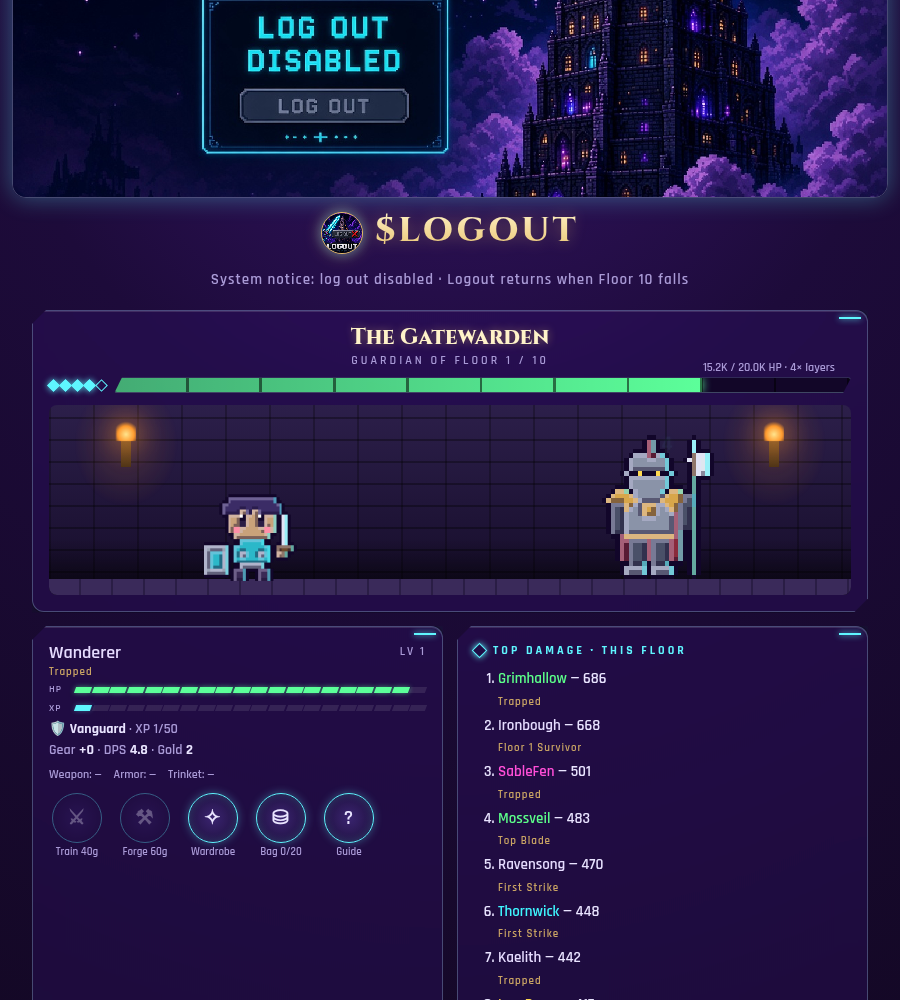
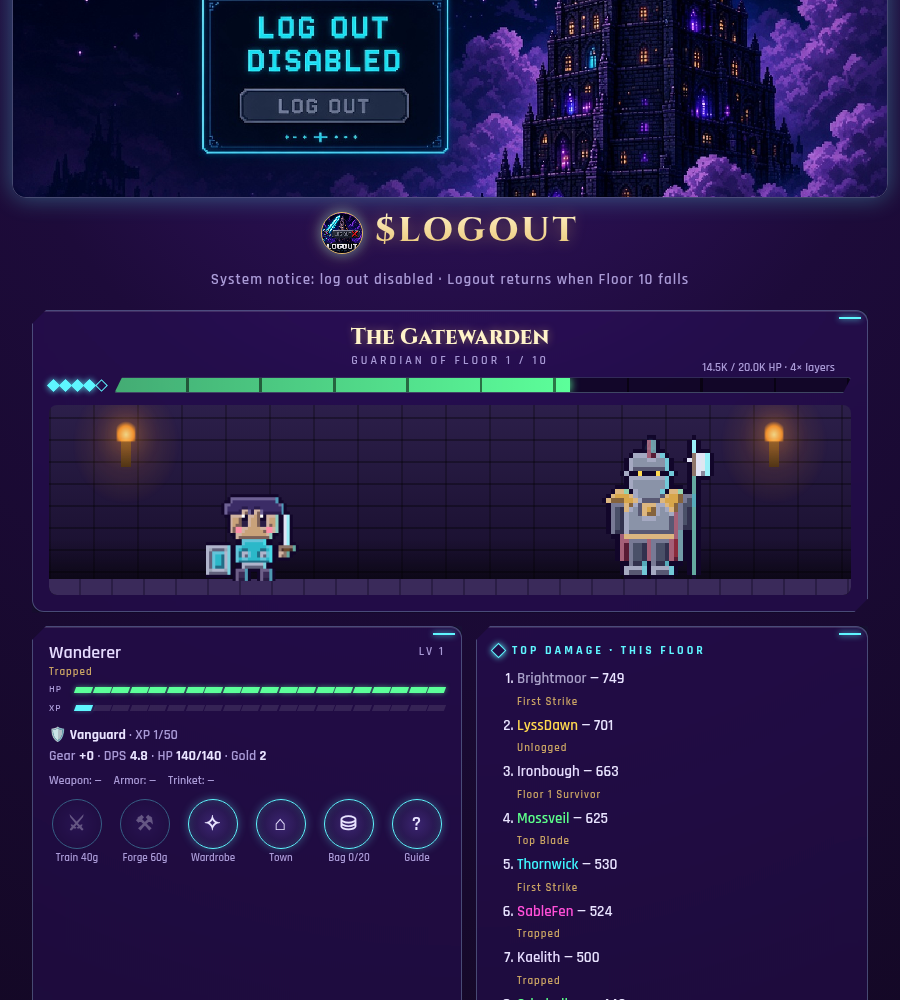
Town hub: hero HP drain + worn-down penalty (live & offline), inn with Well Rested buff, seeded rotating shop (potion, elixir, Scroll of Vigil, gear), NPC sprites, save v4

diff --git a/js/main.js b/js/main.js
@@ -1,5 +1,7 @@
-import { CLASSES, newHero, heroDps, levelCost, gearCost, computeProgress, accrue, applyXp, offlineCap, bossName, fmt, fmtDur, xpToNext } from './game.js';
+import { CLASSES, newHero, heroDps, levelCost, gearCost, accrue, offlineProgress, applyXp, heroHp, heroMaxHp, isWorn, effectiveDps, buffsOf, bossName, fmt, fmtDur, xpToNext } from './game.js';
 import { makeBackend } from './storage.js';
+import { innCost, rest, shopStock, buy as shopBuy, soldOut, npcGrid } from './town.js';
+import { sprite } from './sprites.js';
 import { grantDrops, equipItem, salvageItem, salvageValue, rarityOf, statLabel, INV_SIZE, GEAR_SLOTS } from './loot.js';
 import { OFFLINE_CAP_HOURS, MAX_FLOOR } from '../config.js';
 import { bossSprite, bossIsBig, heroSprite } from './sprites.js';
@@ -36,11 +38,12 @@ async function boot() {
   $('maxf').textContent = MAX_FLOOR;
   be = await makeBackend(); save = migrateSave(await be.loadSave());
   if (!save) return showCreate();
-  const cap = offlineCap(save.heroes, OFFLINE_CAP_HOURS), p = computeProgress(save.heroes, save.lastTick, Date.now(), cap);
+  const p = offlineProgress(save, Date.now(), OFFLINE_CAP_HOURS), cap = p.cap, h0 = save.heroes[0];
+  save.gold += p.gold; const ups = applyXp(save.heroes, p.xp); pending += p.damage;
   if (p.secs > 30) {
-    save.gold += p.gold; const ups = applyXp(save.heroes, p.xp); const r = await be.submitDamage(save.heroes[0].name, p.damage);
+    const r = await be.submitDamage(h0.name, pending); pending = 0;
     lootLines = []; const got = handleClears(r.clears, true);
-    $('awaytxt').innerHTML = `Log out disabled. You fought on for ${fmtDur(p.secs)}${p.capped ? ` (capped at ${cap}h)` : ''}<br>Damage: ${fmt(p.damage)}<br>Gold: +${fmt(p.gold)}<br>XP: +${fmt(p.xp)}${ups.length ? `<br>Level ups: ${ups.length}` : ''}${r.advanced ? `<br>Floors cleared: ${r.advanced}. Floor ${r.floor} is open.` : ''}${got.length ? `<br>Cosmetics unlocked: ${got.map(i => esc(i.label)).join(', ')}` : ''}${lootLines.length ? `<br>Loot: ${lootLines.join(', ')}` : ''}`;
+    $('awaytxt').innerHTML = `Log out disabled. You fought on for ${fmtDur(p.secs)}${p.capped ? ` (capped at ${cap}h)` : ''}${p.vigilUsed ? ' · Scroll of Vigil burned' : ''}<br>HP: ${Math.round(heroHp(h0))} / ${heroMaxHp(h0)}${p.lowSecs > 0 ? ` · worn down for ${fmtDur(p.lowSecs)} (DPS halved). Rest at the inn.` : ''}<br>Damage: ${fmt(p.damage)}<br>Gold: +${fmt(p.gold)}<br>XP: +${fmt(p.xp)}${ups.length ? `<br>Level ups: ${ups.length}` : ''}${r.advanced ? `<br>Floors cleared: ${r.advanced}. Floor ${r.floor} is open.` : ''}${got.length ? `<br>Cosmetics unlocked: ${got.map(i => esc(i.label)).join(', ')}` : ''}${lootLines.length ? `<br>Loot: ${lootLines.join(', ')}` : ''}`;
     $('away').showModal();
   }
   save.lastTick = Date.now(); await be.saveSave(save); startGame();
@@ -81,7 +84,7 @@ async function startGame(fresh = false) {
   floor = await be.getFloor(); log(`${save.heroes[0].name} awoke on Floor ${floor.floor}. The guardian stirs.`); log('System notice: log out disabled.');
   if (fresh) { notice('Log out disabled'); setTimeout(() => notice(`Floor ${floor.floor} is open`), 900); } // no replayed notices on reload
   $('lvl').onclick = () => buy('level'); $('gear').onclick = () => buy('gear'); $('wardrobeBtn').onclick = openWardrobe;
-  $('helpBtn').onclick = () => tourShow(0); $('bagBtn').onclick = openBag; placeDock();
+  $('townBtn').onclick = openTown; $('helpBtn').onclick = () => tourShow(0); $('bagBtn').onclick = openBag; placeDock();
   setInterval(tick, 1000); setInterval(sync, 5000); render(); renderLb();
   if (!save.tutorialSeen) setTimeout(startTour, fresh ? 1600 : 400);
 }
@@ -114,9 +117,13 @@ function render() {
   const c = hpColor(pct); $('hpfill').style.width = (lay ? inLayer * 100 : 0) + '%'; $('hpfill').style.background = `linear-gradient(90deg, ${c}aa, ${c})`; $('hpfill').style.color = c;
   $('hptext').textContent = `${fmt(floor.hp)} / ${fmt(floor.maxHp)} HP · ${lay}× layers`;
   $('hname2').innerHTML = `<div style="color:${nameColorOf(h)}">${esc(h.name)}</div><div class="ttl">${esc(titleOf(h))}</div>`; $('hlv').textContent = `LV ${h.level}`;
-  const hp = 0.85 + 0.15 * Math.abs(Math.sin(Date.now() / 3000)); $('hhp').innerHTML = Array.from({ length: 20 }, (_, i) => `<i class="${i / 20 < hp ? '' : 'off'}"></i>`).join('');
+  const hp = heroHp(h) / heroMaxHp(h), worn = isWorn(h); $('hhp').className = 'seg' + (worn ? ' worn' : hp < 0.6 ? ' mid' : ''); $('hhp').innerHTML = Array.from({ length: 20 }, (_, i) => `<i class="${i / 20 < hp ? '' : 'off'}"></i>`).join('');
+  $('hhp').title = `HP ${Math.round(heroHp(h))} / ${heroMaxHp(h)}`;
+  const b = buffsOf(save), mmss = s => `${Math.floor(s / 60)}:${String(Math.floor(s % 60)).padStart(2, '0')}`;
+  $('buffs').innerHTML = [worn ? '<span class="buff bad" title="Below 30% HP: DPS halved">Worn down · DPS ½</span>' : '', b.rested > 0 ? `<span class="buff" title="+15% gold and XP">Well Rested ${mmss(b.rested)}</span>` : '',
+    b.elixir > 0 ? `<span class="buff" title="+25% DPS">Fury ${mmss(b.elixir)}</span>` : '', b.vigil > 0 ? `<span class="buff" title="Offline cap raised once">Vigil +${b.vigil}h</span>` : ''].join('');
   const xp = h.xp / xpToNext(h.level); $('hxp').innerHTML = Array.from({ length: 20 }, (_, i) => `<i class="${i / 20 < xp ? '' : 'off'}"></i>`).join('');
-  $('stats').innerHTML = `${CLASSES[h.cls].icon} <b>${h.cls}</b> · XP ${h.xp}/${xpToNext(h.level)}<br>Gear <b>+${h.gear}</b> · DPS <b>${heroDps(h).toFixed(1)}</b> · Gold <b>${fmt(save.gold)}</b>`;
+  $('stats').innerHTML = `${CLASSES[h.cls].icon} <b>${h.cls}</b> · XP ${h.xp}/${xpToNext(h.level)}<br>Gear <b>+${h.gear}</b> · DPS <b>${effectiveDps(save).toFixed(1)}</b> · HP <b>${Math.round(heroHp(h))}/${heroMaxHp(h)}</b> · Gold <b>${fmt(save.gold)}</b>`;
   $('lvlL').textContent = `Train ${fmt(levelCost(h))}g`; $('lvl').title = `Train: +1 level for ${fmt(levelCost(h))} gold`; $('lvl').disabled = save.gold < levelCost(h);
   $('equipped').innerHTML = GEAR_SLOTS.map(s => { const it = h.equip?.[s]; return `<span class="eq" style="${it ? `color:${rarityOf(it.rarity).color}` : ''}">${s[0].toUpperCase() + s.slice(1)}: ${it ? esc(it.name) : '—'}</span>`; }).join('');
   $('bagL').textContent = `Bag ${save.inv.length}/${INV_SIZE}`; $('gear').title = 'Forge: temper your weapon, +15% damage per tier';
@@ -129,6 +136,24 @@ async function renderLb() {
     return `<li class="${me ? 'me' : ''}" value="${r.rank}"><span style="color:${pr.color}">${esc(r.name)}</span> — ${fmt(r.damage)}<br><span class="ttl">${esc(pr.title)}</span></li>`;
   }).join('');
 }
+// ---- Town (safe zone of the current floor): inn + rotating shop
+function openTown() {
+  const f = floor.floor, now = Date.now(), st = shopStock(f, now), h = save.heroes[0], c = innCost(f);
+  $('townTitle').textContent = `Town of Floor ${f}`;
+  $('innkeeper').style.backgroundImage = sprite(npcGrid('innkeeper').rows, npcGrid('innkeeper').pal); $('merchant').style.backgroundImage = sprite(npcGrid('merchant').rows, npcGrid('merchant').pal);
+  $('innInfo').innerHTML = `HP <b>${Math.round(heroHp(h))} / ${heroMaxHp(h)}</b>${isWorn(h) ? ' · <span class="bad">worn down</span>' : ''}`;
+  $('restBtn').textContent = `Rest · ${fmt(c)}g`; $('restBtn').disabled = save.gold < c;
+  $('restBtn').onclick = async () => { if (rest(save, f)) { log('You slept at the inn. HP restored · Well Rested (+15% gold & XP, 30 min).', '#5cff8a'); notice('Well Rested · +15% gold & XP'); await be.saveSave(save); render(); openTown(); } };
+  const left = st.endsAt - now; $('shopTimer').textContent = `New stock in ${fmtDur(left / 1000)}`;
+  $('shopList').innerHTML = st.items.map((it, i) => { const R = it.item ? rarityOf(it.item.rarity) : null, out = soldOut(save, st, i);
+    return `<div class="srow" ${R ? `style="--rc:${R.color}"` : ''}><div><b style="${R ? `color:${R.color}` : ''}">${esc(it.name)}</b><small>${R ? `${R.label} ${it.item.slot} · ${Object.entries(it.item.stats).map(([k, v]) => statLabel(k, v)).join(' · ')}` : esc(it.desc)}</small></div>
+      <button data-i="${i}" ${out || save.gold < it.price ? 'disabled' : ''}>${out ? 'Sold' : `${fmt(it.price)}g`}</button></div>`; }).join('');
+  $('shopList').onclick = async e => { const btn = e.target.closest('button[data-i]'); if (!btn) return; const got = shopBuy(save, f, Date.now(), +btn.dataset.i);
+    if (got) { log(`Bought ${got}.`); notice(`Bought · ${got}`); await be.saveSave(save); render(); } openTown(); };
+  $('townGold').textContent = `Gold ${fmt(save.gold)}`;
+  if (!$('town').open) $('town').showModal();
+}
+
 // ---- Bag: inventory grid, compare panel, equip and salvage
 let bagSel = -1;
 const itemCard = (it, cls = '') => { const R = rarityOf(it.rarity); return `<div class="item ${cls}" style="--rc:${R.color}"><b style="color:${R.color}">${esc(it.name)}</b><small>${R.label} · ${it.slot} · Floor ${it.floor} · ${it.element}</small>${Object.entries(it.stats).map(([k, v]) => `<div>${statLabel(k, v)}</div>`).join('')}</div>`; };
@@ -155,7 +180,7 @@ function openBag() {
 const TOUR = [
   { t: 'You fight on your own', x: 'Your hero attacks the floor guardian automatically, every second, even while you are offline. Close the tab; the tower keeps count.', el: () => $('arena') },
   { t: 'Gold and XP', x: 'Every hit pays out: 10% of your damage becomes gold and 5% becomes XP. Fill the XP bar to level up and hit harder.', el: () => $('stats') },
-  { t: 'Train · Forge · Wardrobe', x: 'Train spends gold on a level. Forge tempers your gear for +15% damage per tier. Wardrobe changes your look; it is cosmetic only.', el: () => $('dock') },
+  { t: 'Train · Forge · Wardrobe', x: 'Train spends gold on a level. Forge tempers your gear for +15% damage per tier. Wardrobe changes your look (cosmetic only). Bag holds boss loot; Town has an inn to heal and a shop.', el: () => $('dock') },
   { t: 'One guardian, whole server', x: 'Everyone in the tower shares this boss. Top damage when it falls earns titles, name colours and other rewards.', el: () => $('lb').closest('.panel') },
   { t: 'Layers', x: 'The guardian\'s HP comes in layers: each diamond is one full HP bar. Break every layer to clear the floor and open the stair.', el: () => $('layers').closest('.gauge') },
 ];

diff --git a/js/game.js b/js/game.js
@@ -9,7 +9,7 @@ export { floorBossHp, bossName, bossInfo } from './floors.js';
 
 export function newHero(name, cls) {
   if (!CLASSES[cls]) throw new Error('bad class');
-  return { id: Math.random().toString(36).slice(2, 10), name: String(name).slice(0, 20) || 'Nameless', cls, level: 1, xp: 0, gear: 0 };
+  return { id: Math.random().toString(36).slice(2, 10), name: String(name).slice(0, 20) || 'Nameless', cls, level: 1, xp: 0, gear: 0, hp: CLASSES[cls].hp };
 }
 /** Summed stats of equipped loot: { dps (flat), dpsPct, goldPct, xpPct, capH }. */
 export function gearBonus(h) {
@@ -35,14 +35,51 @@ export function computeProgress(heroes, lastTick, now, capHours = 12) {
   return { secs, capped: raw > secs, damage, gold: Math.floor(damage * 0.1 * goldMul(heroes)), xp: Math.floor(damage * 0.05 * xpMul(heroes)) };
 }
 /** Live accrual with fractional carry (fixes per-tick flooring that kept low-DPS heroes at 0 gold/XP). Mutates save.lastTick/save.carry. */
+// ---- Hero HP: the boss chips HP while you fight. Below 30% DPS halves. HP never drops below 1 (no death, no lost progress).
+export const DRAIN_SECS = 3600;            // full HP to empty in one hour of fighting
+export const LOW_HP = 0.3, LOW_MUL = 0.5;  // worn-down threshold and DPS penalty
+export const RESTED = { secs: 1800, mul: 1.15 }, ELIXIR = { secs: 600, mul: 1.25 };
+export const heroMaxHp = h => Math.round(CLASSES[h.cls].hp * (1 + 0.1 * (h.level - 1)));
+export const heroHp = h => Math.min(heroMaxHp(h), h.hp ?? heroMaxHp(h));
+export const isWorn = h => heroHp(h) <= LOW_HP * heroMaxHp(h) + 1e-9;
+export const buffsOf = save => save.buffs || (save.buffs = { rested: 0, elixir: 0, vigil: 0 });
+/** DPS right now, including the low-HP penalty and an active elixir. */
+export const effectiveDps = save => totalDps(save.heroes) * (isWorn(save.heroes[0]) ? LOW_MUL : 1) * (buffsOf(save).elixir > 0 ? ELIXIR.mul : 1);
+/** Simulate `secs` of fighting (live or offline: same rules). Splits time at HP-threshold and buff-expiry breakpoints.
+ *  Mutates hero HP and buff timers; returns float { dmg, gold, xp, lowSecs }. */
+export function simulate(save, secs) {
+  const h = save.heroes[0], max = heroMaxHp(h), b = buffsOf(save), drain = max / DRAIN_SECS, base = totalDps(save.heroes);
+  const gM = goldMul(save.heroes), xM = xpMul(save.heroes);
+  let hp = heroHp(h), t = Math.max(0, secs), dmg = 0, gold = 0, xp = 0, lowSecs = 0;
+  for (let guard = 0; t > 1e-9 && guard < 16; guard++) {
+    const low = hp <= LOW_HP * max + 1e-9; let seg = t;
+    if (!low) seg = Math.min(seg, (hp - LOW_HP * max) / drain);
+    if (b.rested > 0) seg = Math.min(seg, b.rested);
+    if (b.elixir > 0) seg = Math.min(seg, b.elixir);
+    if (seg <= 1e-9) { if (!low) hp = LOW_HP * max; continue; }
+    const d = base * (low ? LOW_MUL : 1) * (b.elixir > 0 ? ELIXIR.mul : 1) * seg, r = b.rested > 0 ? RESTED.mul : 1;
+    dmg += d; gold += d * 0.1 * gM * r; xp += d * 0.05 * xM * r; if (low) lowSecs += seg;
+    hp = Math.max(1, hp - drain * seg); b.rested = Math.max(0, b.rested - seg); b.elixir = Math.max(0, b.elixir - seg); t -= seg;
+  }
+  h.hp = hp;
+  return { dmg, gold, xp, lowSecs };
+}
+const settle = (save, s) => { // float → integer payouts with fractional carry
+  const c = save.carry || (save.carry = { dmg: 0, gold: 0, xp: 0 }), out = {};
+  for (const [k, v] of [['dmg', s.dmg], ['gold', s.gold], ['xp', s.xp]]) { const x = v + c[k]; out[k] = Math.floor(x); c[k] = x - out[k]; }
+  return out;
+};
+/** Live accrual with fractional carry (fixes per-tick flooring that kept low-DPS heroes at 0 gold/XP). */
 export function accrue(save, now, capHours = 12) {
   const raw = Math.max(0, (now - save.lastTick) / 1000), secs = Math.min(raw, capHours * 3600);
-  const c = save.carry || (save.carry = { dmg: 0, gold: 0, xp: 0 });
-  const d = totalDps(save.heroes) * secs + c.dmg, damage = Math.floor(d); c.dmg = d - damage;
-  const g = damage * 0.1 * goldMul(save.heroes) + c.gold, gold = Math.floor(g); c.gold = g - gold;
-  const x = damage * 0.05 * xpMul(save.heroes) + c.xp, xp = Math.floor(x); c.xp = x - xp;
-  save.lastTick = now;
-  return { secs, capped: raw > secs, damage, gold, xp };
+  const s = simulate(save, secs), o = settle(save, s); save.lastTick = now;
+  return { secs, capped: raw > secs, damage: o.dmg, gold: o.gold, xp: o.xp, lowSecs: s.lowSecs };
+}
+/** Offline return: same rules as live play. A Scroll of Vigil adds 4h to the cap once (consumed only if the extra time was needed). */
+export function offlineProgress(save, now, baseCapHours = 12) {
+  const b = buffsOf(save), cap = offlineCap(save.heroes, baseCapHours) + (b.vigil || 0), raw = Math.max(0, (now - save.lastTick) / 1000);
+  const vigilUsed = b.vigil > 0 && raw > (cap - b.vigil) * 3600; if (vigilUsed) b.vigil = 0;
+  const r = accrue(save, now, cap); return { ...r, cap, vigilUsed };
 }
 export function applyXp(heroes, xp) {
   if (!heroes.length) return [];

diff --git a/js/town.js b/js/town.js
@@ -1,0 +1,55 @@
+// Town hub (one safe town per floor): inn rest + Well Rested buff, a seeded rotating shop, and original NPC sprites. Pure (no DOM).
+import { heroMaxHp, heroHp, buffsOf, RESTED, ELIXIR } from './game.js';
+import { rng, baseHp, bossInfo } from './floors.js';
+import { rollItem, salvageValue, INV_SIZE } from './loot.js';
+import { canvas, shadeShape } from './bosses.js';
+const tier = f => Math.sqrt(baseHp(f) / baseHp(1)); // price scale per floor
+export const innCost = f => Math.round(30 * tier(f));
+export function rest(save, floor) {
+  const c = innCost(floor); if (save.gold < c) return false;
+  save.gold -= c; const h = save.heroes[0]; h.hp = heroMaxHp(h); buffsOf(save).rested = RESTED.secs; return true;
+}
+export const SHOP_BUCKET_MS = 4 * 3600e3; // stock rotates every 4 hours
+export const POTION_HEAL = 0.5, VIGIL_HOURS = 4;
+const hash = s => { let h = 2166136261; for (const c of String(s)) h = Math.imul(h ^ c.charCodeAt(0), 16777619); return h >>> 0; };
+/** Deterministic stock for (floor, time bucket): 3 consumables + 3 gear pieces at the floor's loot tier. */
+export function shopStock(floor, now) {
+  const bucket = Math.floor(now / SHOP_BUCKET_MS), r = rng(hash(`shop|${floor}|${bucket}`)), t = tier(floor), el = bossInfo(floor).lootElement;
+  const items = [
+    { kind: 'potion', name: 'Healing Draught', desc: `Restore ${POTION_HEAL * 100}% HP now`, price: Math.round(15 * t) },
+    { kind: 'elixir', name: 'Elixir of Fury', desc: `+${Math.round((ELIXIR.mul - 1) * 100)}% DPS for ${ELIXIR.secs / 60} min`, price: Math.round(45 * t) },
+    { kind: 'vigil', name: 'Scroll of Vigil', desc: `+${VIGIL_HOURS}h offline cap, once`, price: Math.round(120 * t) },
+  ];
+  for (let i = 0; i < 3; i++) { const it = rollItem(r, floor, el, `shop${bucket}.${i}`); items.push({ kind: 'gear', name: it.name, item: it, price: Math.round(salvageValue(it) * 3), desc: '' }); }
+  return { floor, bucket, endsAt: (bucket + 1) * SHOP_BUCKET_MS, items };
+}
+/** Buy stock index i. Gear can be bought once per rotation. Returns a short result string or null if not possible. */
+export function buy(save, floor, now, i) {
+  const st = shopStock(floor, now), it = st.items[i]; if (!it || save.gold < it.price) return null;
+  if (!save.shop || save.shop.floor !== floor || save.shop.bucket !== st.bucket) save.shop = { floor, bucket: st.bucket, bought: [] };
+  const h = save.heroes[0], b = buffsOf(save);
+  if (it.kind === 'gear') { if (save.shop.bought.includes(i) || save.inv.length >= INV_SIZE) return null; save.inv.push({ ...it.item }); save.shop.bought.push(i); }
+  if (it.kind === 'potion') { if (heroHp(h) >= heroMaxHp(h)) return null; h.hp = Math.min(heroMaxHp(h), heroHp(h) + POTION_HEAL * heroMaxHp(h)); }
+  if (it.kind === 'elixir') b.elixir = ELIXIR.secs;
+  if (it.kind === 'vigil') { if (b.vigil > 0) return null; b.vigil = VIGIL_HOURS; }
+  save.gold -= it.price; return it.name;
+}
+export const soldOut = (save, st, i) => st.items[i].kind === 'gear' && save.shop?.bucket === st.bucket && save.shop?.floor === st.floor && save.shop.bought.includes(i);
+// ---- NPC sprites (original): a stout innkeeper with apron and mug, a hooded peddler with an overloaded pack.
+const NPC = {
+  innkeeper: { pal: { S: '#e8b88a', H: '#b4532a', A: '#e6dcc8', B: '#6a4bd8', D: '#5a3825', M: '#c9a24a', E: '#12062a', k: '#12062a' }, draw: ({ rect, ell, px, line }) => {
+    ell(16, 22, 9, 8, 'B'); rect(11, 16, 10, 13, 'A'); rect(12, 20, 8, 1, 'D');            // round body, apron
+    ell(16, 10, 6, 6, 'S'); ell(16, 5, 6, 3, 'H'); rect(10, 6, 2, 5, 'H'); rect(21, 6, 2, 5, 'H'); line(12, 13, 20, 13, 'H'); // head, hair, moustache
+    px(14, 10, 'E'); px(18, 10, 'E'); rect(15, 14, 3, 1, 'k');
+    line(8, 18, 5, 23, 'B', 2); rect(3, 22, 4, 5, 'M'); rect(3, 22, 4, 1, 'A'); rect(7, 23, 1, 3, 'M'); // arm + mug of cider
+    line(24, 18, 26, 24, 'B', 2); rect(11, 29, 4, 2, 'D'); rect(17, 29, 4, 2, 'D');
+  } },
+  merchant: { pal: { C: '#2f6f6a', L: '#5fb8a8', S: '#c9a27a', P: '#8a5a32', D: '#5a3820', G: '#ffd84f', E: '#5ff6ff', k: '#12062a' }, draw: ({ rect, ell, px, line, flare }) => {
+    rect(19, 6, 11, 16, 'P'); rect(20, 4, 9, 2, 'D'); rect(22, 2, 4, 2, 'P'); rect(19, 12, 11, 1, 'D'); px(27, 9, 'G'); px(21, 16, 'G'); line(29, 8, 31, 4, 'D'); // big pack + rolled map
+    flare(12, 29, 13, 4, 8, 'C'); line(13, 14, 13, 28, 'L');                                // long coat
+    ell(13, 8, 5, 5, 'C'); ell(13, 9, 3, 3, 'S'); px(12, 9, 'k'); px(15, 9, 'k'); rect(12, 11, 3, 1, 'D'); // hood + face
+    line(9, 15, 5, 20, 'C', 2); ell(4, 21, 2, 2, 'G'); px(4, 21, 'E');                       // hand holding a coin
+    rect(9, 29, 4, 2, 'D'); rect(14, 29, 4, 2, 'D');
+  } },
+};
+export function npcGrid(key) { const c = canvas(); NPC[key].draw(c); return shadeShape({ rows: c.rows(), pal: NPC[key].pal }); }

diff --git a/index.html b/index.html
@@ -21,8 +21,8 @@
    <div id="arena"><div class="torch l"></div><div class="torch r"></div><div id="hero" class="sprite"></div><div id="boss" class="sprite boss"></div><div id="fx"></div></div>
   </div>
   <div class="row">
-   <div class="panel win"><div class="hudtop"><div id="hname2"></div><div class="lv" id="hlv"></div></div><div class="segrow"><span>HP</span><div class="seg" id="hhp"></div></div><div class="segrow"><span>XP</span><div class="seg xp" id="hxp"></div></div><div id="stats"></div><div id="equipped" class="equipped"></div>
-    <nav class="btns" id="dock" aria-label="Actions"><div class="act"><button id="lvl" class="rb" title="Train" aria-label="Train">⚔</button><span id="lvlL">Train</span></div><div class="act"><button id="gear" class="rb" title="Forge" aria-label="Forge">⚒</button><span id="gearL">Forge</span></div><div class="act"><button id="wardrobeBtn" class="rb" title="Wardrobe" aria-label="Wardrobe">✧</button><span>Wardrobe</span></div><div class="act"><button id="bagBtn" class="rb" title="Bag" aria-label="Bag">⛁</button><span id="bagL">Bag</span></div><div class="act"><button id="helpBtn" class="rb" title="How to play" aria-label="How to play">?</button><span>Guide</span></div></nav></div>
+   <div class="panel win"><div class="hudtop"><div id="hname2"></div><div class="lv" id="hlv"></div></div><div class="segrow"><span>HP</span><div class="seg" id="hhp"></div></div><div class="segrow"><span>XP</span><div class="seg xp" id="hxp"></div></div><div class="buffs" id="buffs"></div><div id="stats"></div><div id="equipped" class="equipped"></div>
+    <nav class="btns" id="dock" aria-label="Actions"><div class="act"><button id="lvl" class="rb" title="Train" aria-label="Train">⚔</button><span id="lvlL">Train</span></div><div class="act"><button id="gear" class="rb" title="Forge" aria-label="Forge">⚒</button><span id="gearL">Forge</span></div><div class="act"><button id="wardrobeBtn" class="rb" title="Wardrobe" aria-label="Wardrobe">✧</button><span>Wardrobe</span></div><div class="act"><button id="townBtn" class="rb" title="Town" aria-label="Town">⌂</button><span>Town</span></div><div class="act"><button id="bagBtn" class="rb" title="Bag" aria-label="Bag">⛁</button><span id="bagL">Bag</span></div><div class="act"><button id="helpBtn" class="rb" title="How to play" aria-label="How to play">?</button><span>Guide</span></div></nav></div>
    <div class="panel win"><h2>Top Damage · this floor</h2><ol id="lb"></ol></div>
   </div>
   <div class="panel win"><h2>Chronicle</h2><div class="log" id="log"></div></div>
@@ -30,6 +30,12 @@
 </main>
 <dialog id="wardrobe" class="win"><h2>Wardrobe <small>· cosmetic only</small></h2><div class="wrow"><div><div id="wpreview" class="preview big"></div><div id="wname"></div></div><div id="wpick"></div></div><button onclick="this.closest('dialog').close()">Close</button></dialog>
 <div id="tour" class="win hidden" role="dialog" aria-live="polite"><small class="tstep" id="tstep"></small><h3 id="ttitle"></h3><p id="ttext"></p><div class="tbtns"><button id="tskip">Skip</button><span></span><button id="tback">Back</button><button id="tnext" class="cta">Next</button></div></div>
+<dialog id="town" class="win"><h2><span id="townTitle">Town</span> <small>· safe zone</small><small class="tg" id="townGold"></small></h2>
+ <div class="townwrap">
+  <section class="tcard"><div class="npc" id="innkeeper"></div><h3>The Lantern Rest</h3><p class="sub">Innkeeper Marrow: “A warm bed heals any tower-ache. Sleep, and wake sharper.”</p>
+   <p id="innInfo"></p><p class="sub">Restores full HP and grants <b>Well Rested</b>: +15% gold &amp; XP for 30 min of play or offline time.</p><button id="restBtn" class="cta"></button></section>
+  <section class="tcard"><div class="npc" id="merchant"></div><h3>Quill's Wandering Wares</h3><p class="sub" id="shopTimer"></p><div id="shopList"></div></section>
+ </div><button onclick="this.closest('dialog').close()">Leave town</button></dialog>
 <dialog id="bag" class="win"><h2>Bag <small id="bagCount"></small></h2><div class="bagwrap"><div><div class="eqrow" id="eqrow"></div><div class="grid" id="bagGrid"></div></div><div class="detail" id="bagDetail"><p class="sub">Select an item to compare it with what you have equipped.</p></div></div><button onclick="this.closest('dialog').close()">Close</button></dialog>
 <div id="notices"></div><div id="cleared"><span>FLOOR CLEARED</span><small id="clearedSub"></small></div>
 <dialog id="away" class="win"><h2>System notice · while you were away</h2><div id="awaytxt"></div><button onclick="this.closest('dialog').close()">Resume</button></dialog>

diff --git a/style.css b/style.css
@@ -116,3 +116,16 @@ header{padding-top:max(14px,env(safe-area-inset-top))}main{padding-left:max(12px
 .detail{flex:1;min-width:240px}.vs{text-align:center;font-size:11px;letter-spacing:3px;color:var(--mut);margin:6px 0;text-transform:uppercase}.delta{font-size:16px;margin:8px 0}
 .bagbtns{display:flex;gap:6px}.bagbtns button{flex:1;min-height:44px}
 @media(max-width:640px){#bag{width:calc(100vw - 16px)}.bagwrap{flex-direction:column}.eqrow{grid-template-columns:1fr}#bag>button{position:sticky;bottom:0;width:100%;background:rgba(30,15,65,.95)}}
+
+/* hero HP + buffs */
+.seg.mid i:not(.off){background:#ffd84f;box-shadow:0 0 5px #ffd84f88}.seg.worn i:not(.off){background:#ff3355;box-shadow:0 0 6px #ff3355aa}
+.buffs{display:flex;flex-wrap:wrap;gap:4px;margin:2px 0 6px}.buff{font-size:11px;letter-spacing:1px;padding:2px 8px;border:1px solid var(--cy);border-radius:999px;color:var(--cy);background:#5ff6ff14}
+.buff.bad,.bad{color:#ff3355;border-color:#ff3355}.buff.bad{background:#ff335514}
+/* town */
+#town{max-width:820px;width:95vw;max-height:90vh;overflow:auto;background:linear-gradient(rgba(60,30,40,.35),rgba(20,10,45,.6)),var(--glass)}
+#town h2 .tg{margin-left:auto;color:var(--gold);letter-spacing:2px}
+.townwrap{display:grid;grid-template-columns:1fr 1.3fr;gap:12px}.tcard{border:1px solid var(--line);border-radius:10px;padding:12px;background:rgba(10,4,24,.45);position:relative}
+.tcard h3{font:800 17px 'Cinzel',serif;color:#fff3c9;margin:4px 0}.npc{width:96px;height:96px;image-rendering:pixelated;background:center/100% no-repeat;float:right;margin:-4px -4px 4px 8px;filter:drop-shadow(0 0 6px #ff9a2e55)}
+.srow{display:flex;align-items:center;gap:8px;padding:6px 0;border-bottom:1px solid #ffffff10;clear:both}.srow>div{flex:1}.srow small{display:block;color:var(--mut);font-size:11px}.srow button{min-width:76px;min-height:44px;margin:0}
+.srow[style]{border-left:2px solid var(--rc);padding-left:8px}
+@media(max-width:640px){#town{width:calc(100vw - 16px)}.townwrap{grid-template-columns:1fr}#town>button{position:sticky;bottom:0;width:100%;background:rgba(30,15,65,.95)}.act{min-width:48px}.act span{font-size:10px}#dock{gap:2px}.rb{width:46px;height:46px}}

diff --git a/js/cosmetics.js b/js/cosmetics.js
@@ -1,5 +1,5 @@
 // Cosmetics: catalog, unlock rules, save migration, layered sprite grids. Pure (no DOM). No stat effects.
-export const SAVE_VERSION = 3;
+export const SAVE_VERSION = 4;
 const I = (id, type, label, value, unlock = null, extra = {}) => ({ id, type, label, value, unlock, ...extra });
 export const CATALOG = [
   // skin tones
@@ -93,8 +93,13 @@ export function migrateSave(s) {
   }
   if (s.version < 3) { // v3: loot inventory, equipped gear, drop cosmetics, aura slot
     s.inv = s.inv || []; s.lootSeq = s.lootSeq || 0; s.progress.drops = s.progress.drops || [];
-    s.heroes.forEach(h => { h.equip = h.equip || { weapon: null, armor: null, trinket: null }; h.look.aura = h.look.aura || 'au-none'; });
+    s.heroes.forEach(h => { h.equip = h.equip || { weapon: null, armor: null, trinket: null }; h.look = { ...defaultLook(h.cls), ...(h.look || {}) }; h.look.aura = h.look.aura || 'au-none'; });
     s.version = 3;
+  }
+  if (s.version < 4) { // v4: hero HP, town buffs, shop purchases
+    s.heroes.forEach(h => { if (h.hp == null) h.hp = null; }); // null = full HP (resolved against max HP at runtime)
+    s.buffs = s.buffs || { rested: 0, elixir: 0, vigil: 0 }; s.shop = s.shop || null;
+    s.version = 4;
   }
   return s;
 }

diff --git a/js/bosses.js b/js/bosses.js
@@ -2,7 +2,7 @@
 // Pure (no DOM). Palette chars: k = deep shadow, E = glow (both unshaded).
 import { shade } from './pixel.js';
 export const BOSS_SIZE = 32;
-function canvas() {
+export function canvas() {
   const g = Array.from({ length: BOSS_SIZE }, () => Array(BOSS_SIZE).fill('.'));
   const px = (x, y, c) => { x = Math.round(x); y = Math.round(y); if (x >= 1 && x < BOSS_SIZE - 1 && y >= 1 && y < BOSS_SIZE - 1) g[y][x] = c; };
   const rect = (x, y, w, h, c) => { for (let j = y; j < y + h; j++) for (let i = x; i < x + w; i++) px(i, j, c); };

diff --git a/README.md b/README.md
@@ -1,7 +1,7 @@
 # $LOGOUT — idle tower prototype (v1)
 Static browser idle game: an auto-fighting hero climbs floors 1–10, chipping at a shared floor boss (other players simulated locally). Offline progress is computed from timestamps (capped at 12h). Saves go to localStorage.
 
-**Run locally:** `python3 -m http.server 8000` then open http://localhost:8000. Tests: `node test/offline.test.mjs`, `node test/cosmetics.test.mjs`, `node test/floors.test.mjs`. Dev-only boss plan preview: `/preview-bosses.html`.
+**Run locally:** `python3 -m http.server 8000` then open http://localhost:8000. Tests: `for t in offline cosmetics floors progress loot town; do node test/$t.test.mjs; done`; browser regression (needs playwright-core): `node test/e2e.play.mjs [url]`. Dev-only boss plan preview: `/preview-bosses.html`.
 
 **Deploy:** no build step. *GitHub Pages:* push the repo, Settings → Pages → deploy from branch `main`, root. *Cloudflare Pages:* connect the repo, build command empty, output dir `/`.
 
